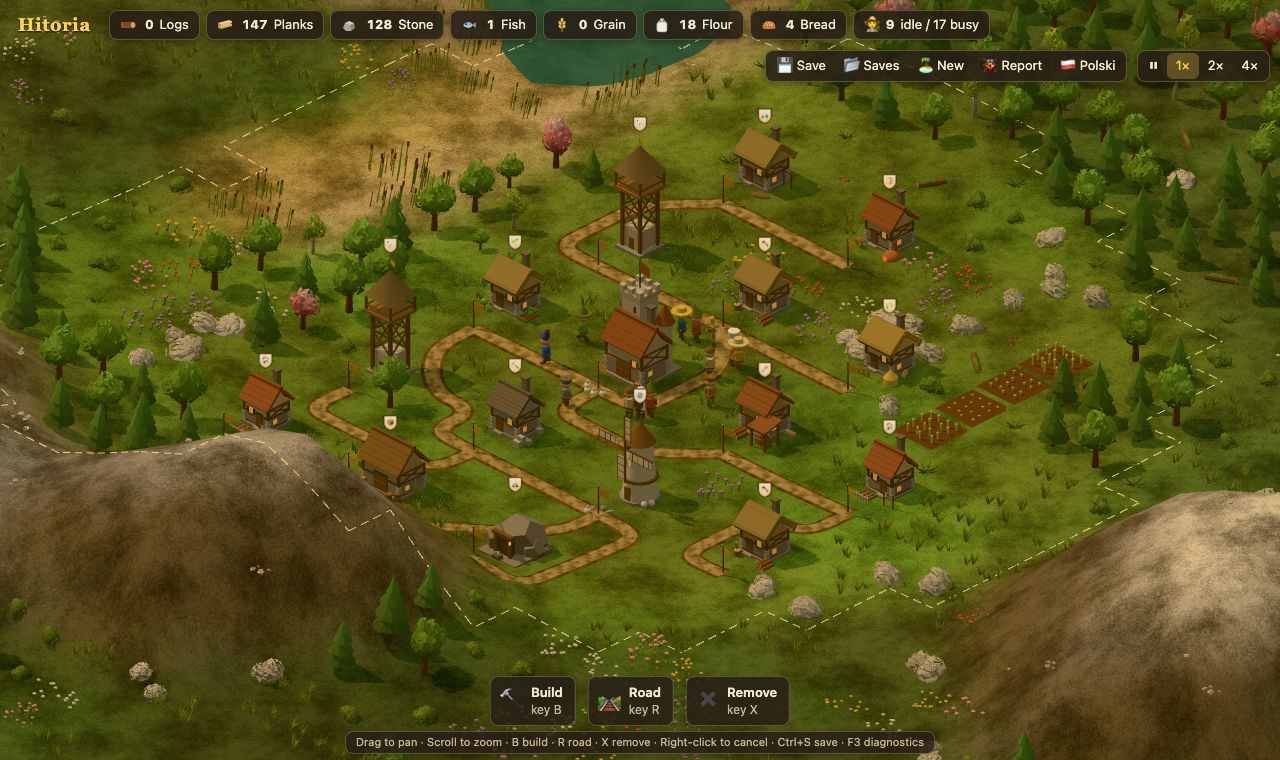
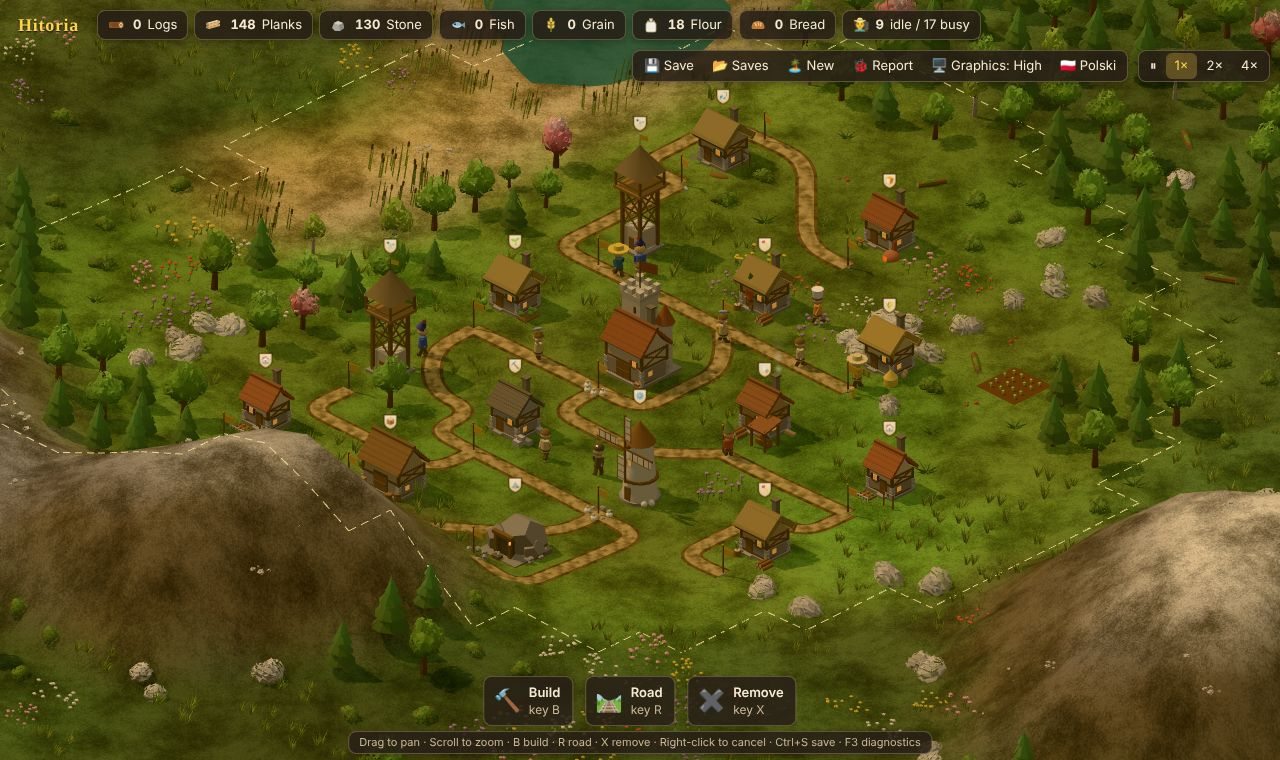
Describe the graphics setting in the README and retake its screenshot
Claude-Session: https://claude.ai/code/session_011DLgvjTFiBvTxZgFpsXsBF

diff --git a/README.md b/README.md
@@ -123,6 +123,19 @@ The save keeps the map, buildings, roads, flags and every good. It does not keep
 After a load, everyone starts in the HQ and walks back to their post. Goods a settler was holding go
 back to their building or flag, so nothing is lost.
 
+## Graphics
+
+The **Graphics** button in the menu sets how the game is drawn. Click it to go through the choices.
+
+- **Auto** is the default. It starts on a level that suits your device: High on a computer, Medium
+  on a phone or tablet. If the game runs slowly, it lowers the level while you play and tells you.
+  If the game then runs smoothly for a while, it tries one level higher, but never one that was
+  already too slow. The browser remembers the level it settled on.
+- **Low**, **Medium** and **High** stay as you set them. Low turns off shadows and draws fewer
+  pixels. High draws soft shadows at full sharpness.
+
+Press F3 to see the level, and how much the game draws each frame.
+
 ## Code map
 
 | File | What it does |
@@ -131,6 +144,7 @@ back to their building or flag, so nothing is lost.
 | `src/game/` | Simulation: buildings, roads, settlers, carriers, food and saving |
 | `src/path.ts` | A* pathfinding on the tile grid |
 | `src/render/` | Three.js 3D renderer: terrain, water, buildings, settlers, overlays. Keeps the isometric camera angle |
+| `src/quality/` | The graphics setting, and Auto, which lowers it when frames are slow |
 | `src/art.ts` | The game's colours and light in one place: sky, sun, land, water, trees and roofs |
 | `src/ui.ts` | HUD and info panel |
 | `src/buildmenu/` | The build menu |
